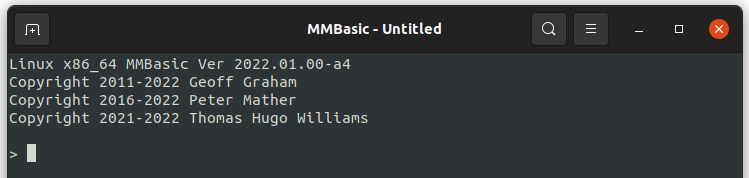
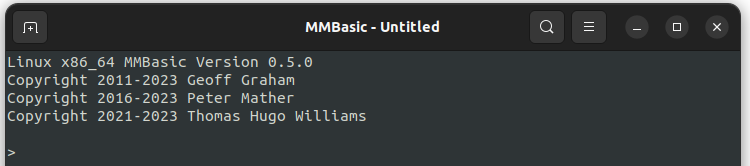
Update README

diff --git a/README.md b/README.md
@@ -10,6 +10,7 @@
     * [Using GNU nano](#using-gnu-nano)
 6. [Differences from MMBasic 5.07.03 for the Colour Maximite 2](#6-differences-from-mmbasic-50703-for-the-colour-maximite-2)
 7. [MMB4L specific extensions to MMBasic](#7-mmb4l-specific-extensions-to-mmbasic)
+    * [Automatic path completion](#automatic-path-completion)
     * [The "bang" command !](#the-bang-command-)
     * [CHR$](#chr)
     * [CONSOLE](#console)
@@ -31,6 +32,7 @@
     * [QUIT](#quit)
     * [READ](#read)
     * [RESTORE](#restore)
+    * [RUN](#run)
     * [SYSTEM](#system)
     * [XMODEM](#xmodem)
 8. [Limitations](#8-limitations)
@@ -44,24 +46,24 @@ MMB4L is a port of Geoff Graham's [MMBasic](https://mmbasic.com/) interpreter to
 
 It was originally derived with permission from:
  * [MMBasic for DOS](https://geoffg.net/WindowsMMBasic.html)
-     * Copyright 2011-2022 Geoff Graham<br/>
+     * Copyright 2011-2023 Geoff Graham<br/>
 
 But also incorporates code and ideas from several other MMBasic ports:
  * [MMBasic for the PicoMite](https://geoffg.net/picomite.html) and [PicoMite VGA](https://geoffg.net/picomitevga.html)
-     * Copyright 2011-2022 Geoff Graham
-     * Copyright 2016-2022 Peter Mather
+     * Copyright 2011-2023 Geoff Graham
+     * Copyright 2016-2023 Peter Mather
      * https://github.com/UKTailwind/PicoMite
      * https://github.com/UKTailwind/PicoMite-VGA-Edition<br/>
  * [MMBasic for the Colour Maximite 2](https://geoffg.net/maximite.html)
-     * Copyright 2011-2022 Geoff Graham
-     * Copyright 2016-2022 Peter Mather<br/>
+     * Copyright 2011-2023 Geoff Graham
+     * Copyright 2016-2023 Peter Mather<br/>
  * MMBasic for Windows
-     * Copyright 2011-2022 Geoff Graham
-     * Copyright 2016-2022 Peter Mather
+     * Copyright 2011-2023 Geoff Graham
+     * Copyright 2016-2023 Peter Mather
      * https://github.com/UKTailwind/MMB4W
  * Mothballed Pi-cromite project by Peter Mather.
 
-What little MMB4L specific code there is, is Copyright 2021-2022 Thomas Hugo Williams.
+What little MMB4L specific code there is, is Copyright 2021-2023 Thomas Hugo Williams.
 
 MMB4L is an open-source project distributed under a modified 4-clause BSD license, see the [LICENSE.MMBasic](LICENSE.MMBasic) file for details.
 
@@ -209,7 +211,7 @@ Where not overridden by the above the [default nano keyboard bindings](https://w
  1. Unlike other MMBasic version there is no key combination to automatically **Run** a program from the editor.
  2. If you rename a file whilst saving it MMB4L will not update its "current stored program" state and will still be using the previous file.
 
-## 6. Differences from MMBasic 5.07.03 for the Colour Maximite 2
+## 6. Differences from MMBasic 5.07.02 for the Colour Maximite 2
 
 The principle difference between MMB4L and the Colour Maximite 2 is the lack of commands/functions for high-resolution graphics, sound and GPIO.
 
@@ -221,10 +223,7 @@ The principle difference between MMB4L and the Colour Maximite 2 is the lack of 
     * `OPTION CONSOLE CHARACTER` returns to using character resolution.
 * When the source of an error is in a .INC file the `EDIT` command will open that file instead of the current .BAS file.
      * To explicitly open the current .BAS file use `EDIT CURRENT`
-* The `RUN` command accepts a string expression, e.g. `RUN s1$ + s2`
-     * However any optional command-line is still passed verbatim / without evaluation to `MM.CMDLINE`
-         * e.g. `RUN "foo.bas", this_expression$ + will% + not_be_evaluated!`
-         * as on the CMM2 the `EXECUTE` command can be used to workaround this limitation.
+* The syntax of the `RUN` command is changed/extended (see [below](#run)).
 * As is the default for most BASICs the `FILES` command lists the contents of the current directory.
      * The CMM2 is "non-standard" in this respect and instead shows a TUI file manager.
 * There is no `LS` command, use `FILES` or for more flexibility `!ls`.
@@ -233,6 +232,10 @@ The principle difference between MMB4L and the Colour Maximite 2 is the lack of 
 ## 7. MMB4L specific extensions to MMBasic
 
 MMB4L implements a small number of extensions to MMBasic 5.07.03:
+
+### Automatic path completion
+
+At the MMB4L prompt pressing the TAB key will attempt to complete (as far as can be unambiguously determined) a filename that is currently being typed, or sound the console bell if no completion is possible.
 
 ### The "bang" command !
 
@@ -384,6 +387,13 @@ In MMB4L this function can return values for these additional properties:
          * "Linux x86_64"
      * Note that `MM.INFO$(DEVICE)` will return "MMB4L" for all of these.
 
+ * `MM.INFO(CALLDEPTH)`
+     * Gets the the current function/subroutine call depth starting at 0 when not in a function/subroutine.
+     * Primarily to help with debugging; though a production use-case might be to allow recursive code to "bail out" if recursion gets too deep.
+
+ * `MM.INFO(CPUTIME)`
+     * Gets the value (in nanoseconds) of the CPU timer for the MMB4L process.
+
  * `MM.INFO$(ENVVAR name$)`
      * Gets the value of the named environment variable, or the empty string if there is no such environment variable.
 
@@ -403,6 +413,13 @@ In MMB4L this function can return values for these additional properties:
  
  * `MM.INFO$(OPTION <option>)`
      * Gets the value of the named option, this is supported for all options.
+
+ * `MM.INFO(PID)`
+     * Gets the process ID of the MM4L process.
+
+ * `MM.INFO(VERSION [MAJOR | MINOR | MICRO | BUILD] )`
+     * Gets the MMB4L major, minor, micro version or build number as an integer.
+     * Without the additional argument it returns an integer = MAJOR * 100,000,000 + MINOR * 1,000,000 + MICRO * 10000 + BUILD, e.g. 5,000,000 for version 0.5.
 
 ### OPEN
 
@@ -556,6 +573,21 @@ Sets the value of the "virtual pointer" used to track where the [READ](#read) co
 Outputs text to the console/terminal at a given character position followed by a carriage return/newline pair.
  * Unlike the CMM2 `x%` and `y%` are both obligatory and in character (not pixel) coordinates. There is no `mode` parameter.
  * It is equivalent to `CONSOLE SETCURSOR x, y : PRINT expression`
+
+### RUN
+
+`RUN [file$] [, cmdline$]`
+
+Both `file$` and `cmdline$` can now be string expressions instead of the legacy behaviour where the command line argument was "not processed" by MMBasic and was copied verbatim into the `MM.CMDLINE$` of the new program.
+ * If the text following the comma contains an unquoted minus sign then for backward compatibility MMB4L trys to use the legacy behaviour, but this does not work for all possible legacy command lines.
+ * Note that the behaviour of the `*` command is unchanged; expressions in any command line provided via `*` are not evaluated by MMB4L, e.g.
+    ```
+    *foo a$ + b$
+    ```
+    is equivalent to:
+    ```
+    RUN "foo", "a$ + b$"
+    ```
 
 ### QUIT
 
